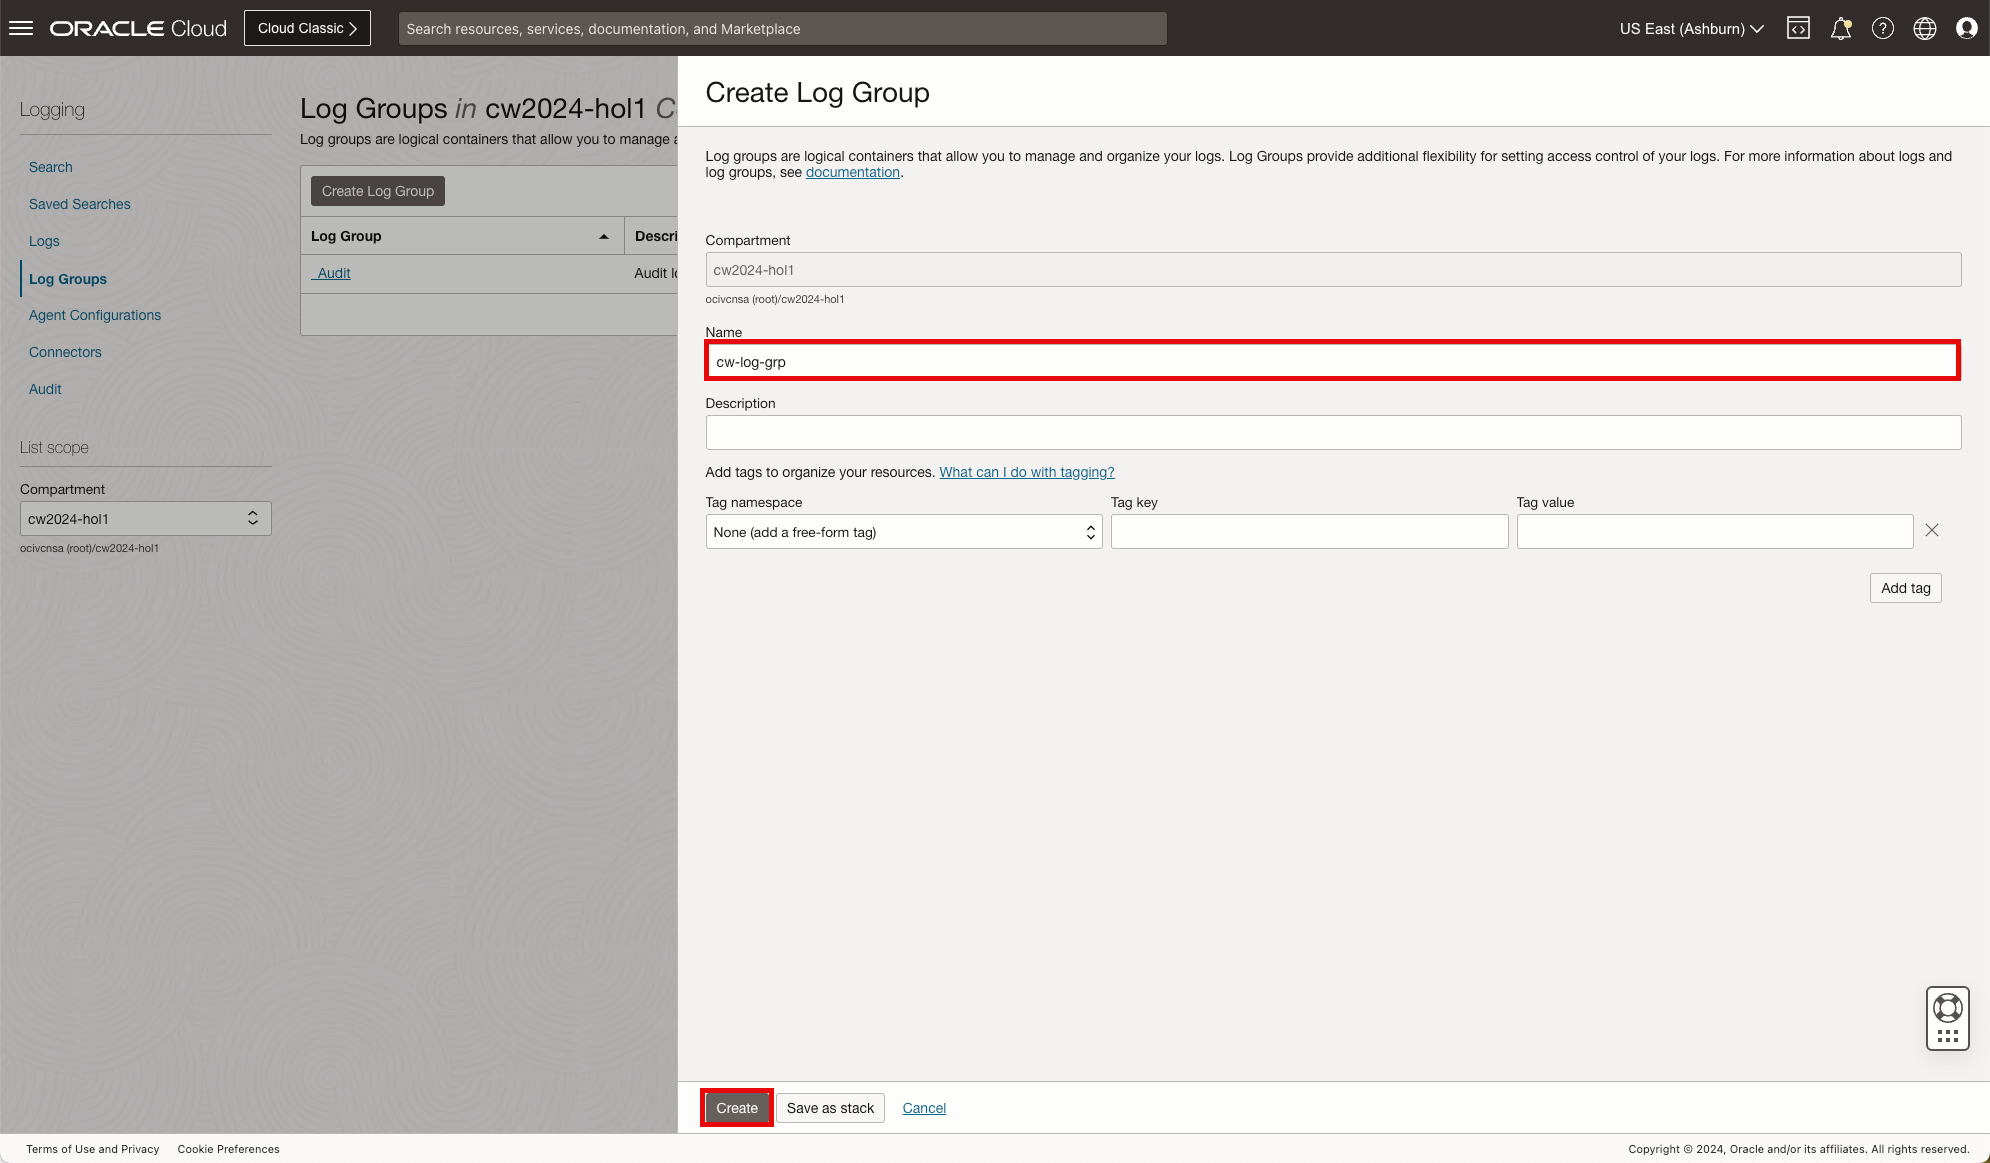
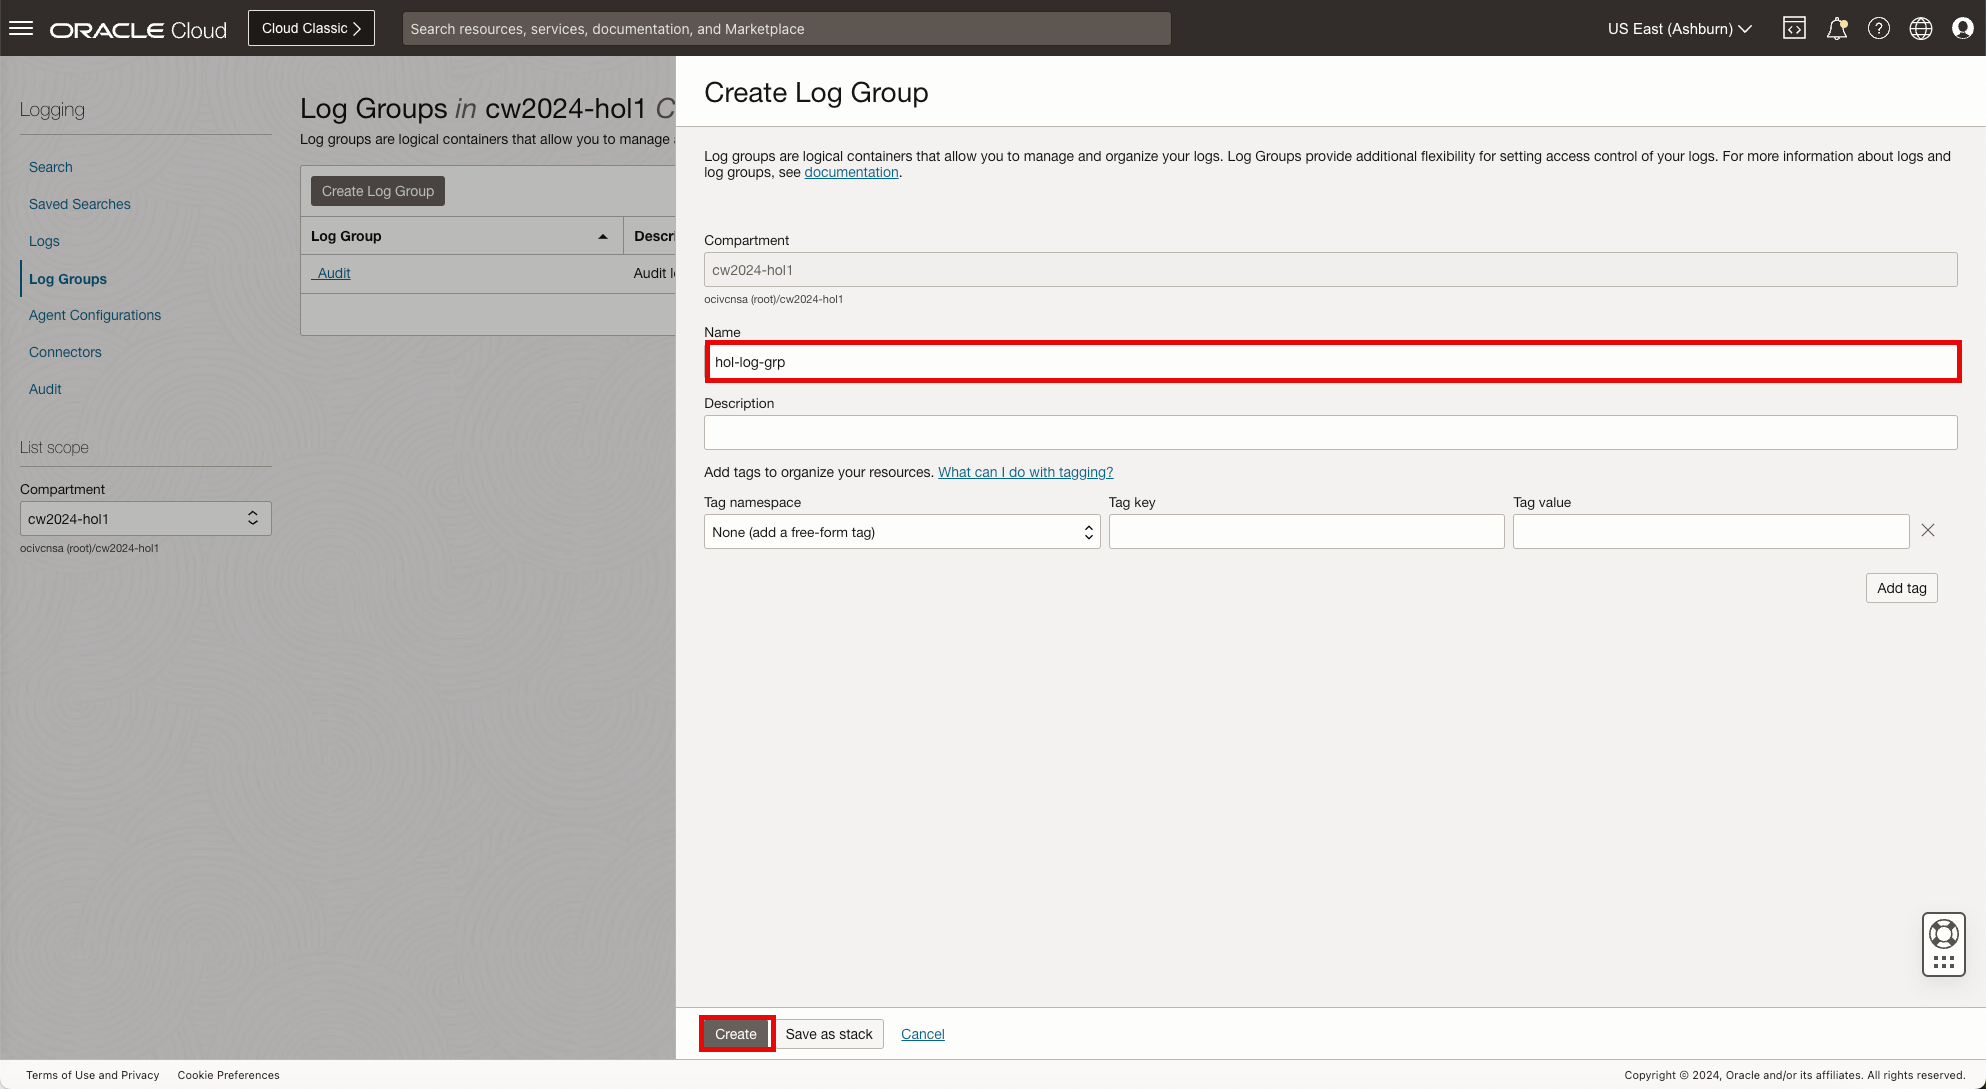
VTAP lab updates

diff --git a/oci-vtaps-flow-logs/lab1/lab1.md b/oci-vtaps-flow-logs/lab1/lab1.md
@@ -10,7 +10,7 @@ Virtual Cloud Networks (VCNs) provide customizable and private cloud networks in
 
 A Subnet is a subdivision of a VCN. Each subnet in a VCN consists of a contiguous range of IPv4 addresses and optionally IPv6 addresses that do not overlap with other subnets in the VCN.
 
-Logs contain critical diagnostic information that tells you how your resources are performing and being accessed. Log groups are logical containers for organizing logs. Logs must always be associated with log groups and you must create a log group to enable the desired log. [Visit our documentation](https://docs.oracle.com/en-us/iaas/Content/Logging/home.htm) for more information on Logging.
+Logs contain critical diagnostic information that tells you how your resources are performing and being accessed. Log groups are logical containers for organizing logs. Logs must always be associated with log groups and you must create a log group to enable the desired log. [Visit our documentation](https://docs.oracle.com/en-us/iaas/Content/Logging/home.htm) for more information on Logging or [Visit our documentation](https://docs.oracle.com/en-us/iaas/Content/Network/Concepts/vcn-flow-logs.htm#vcn_flow_logs) for more details on VCN Flow Logs.
 
 ### Objectives
 
@@ -40,37 +40,6 @@ Let's begin.
         ![region-home](images/region-home.png)
 
         **Note**: This lab can be completed in any OCI region you have access to with the required resources. Based on your account, select the desired region to complete the exercise. For the purpose of this lab we will use the **"US East (Ashburn)"** region.
-
-## Task 1: Create Log Group
-
-With log groups, you do not have to rely on complex compartment hierarchies to secure your logs. We will create a log group to facilitate the flow logs in the section to come.
-
-Let's begin.
-
-1. On the Oracle Cloud Infrastructure Console Home page, using the Navigation menu (on top left) click **Observability and Management** and click on **Log Groups**.
-
-    * Click the Navigation Menu (top left corner)
-    * Click **"Observability and Management"**
-    * Click **"Log Groups"**
-
-        ![loggroup-navigation](images/loggroup-navigation.png)
-
-2. In the Log Group tables, click **Create Log Group** to create the log group.
-
-    * Click **"Create Log Group"**
-
-        ![loggroup-createloggroups](images/loggroup-createloggroups.png)
-
-    In the log group configuration window, use the data below to create the log group:
-
-    * Name: **"cw-log-grp"**
-    * Click **"Create"**
-
-        ![loggroup-create](images/loggroup-create.png)
-
-3. The **Log Group** is created, you can now move forward to the **Next Task**.
-
-    ![loggroup-list](images/loggroup-list.png)
 
 ## Task 2: Create a VCN (Virtual Cloud Network)
 
@@ -145,53 +114,101 @@ Let's begin.
 
     ![subnet-list](images/subnet-list.png)
 
-## Task 4: Enable Flow Logging
+## Task 4: Create Log Group
 
-Now that we have created the three subnets for use within the lab, let's proceed with enabling Flow Logging for each subnet. There are many options for enabling Flow Logs, for the purpose of this exercise we will enable VCN Flow Logs for Subnets.
+With log groups, you do not have to rely on complex compartment hierarchies to secure your logs. We will create a log group to facilitate the flow logs in the section to come.
 
 Let's begin.
 
-1. In the **Subnets** table, click the first subnet.
+1. On the Oracle Cloud Infrastructure Console Home page, using the Navigation menu (on top left) click **Observability and Management** and click on **Log Groups**.
 
-    * Click **"lab-vcn-snet1"**
+    * Click the Navigation Menu (top left corner)
+    * Click **"Observability and Management"**
+    * Click **"Log Groups"**
 
-        ![subnet-snet1](images/subnet-snet1.png)
+        ![loggroup-navigation](images/loggroup-navigation.png)
 
-2. In the **Subnets** details view, select **Logs** under Resources and in the Enable Log Column for the **subnet** click on **Not enabled**. Once selected the status for the subnet will then transition to **Enabled**.
+2. In the Log Group tables, click **Create Log Group** to create the log group.
 
-    * Click **"Logs"**
-    * Click radio button next to **"Not Enabled"**
+    * Click **"Create Log Group"**
 
-        ![subnet-logs](images/subnet-logs.png)
+        ![loggroup-createloggroups](images/loggroup-createloggroups.png)
 
-3. In the Enable Log configuration leave all defaults and click **Enable Log**.
+    In the log group configuration window, use the data below to create the log group:
 
-    * Confirm the Log Group: **"cw-log-grp"**
-    * Click **"Enable Log**
+    * Name: **"hol-log-grp"**
+    * Click **"Create"**
 
-        ![subnet-enablelog](images/subnet-enablelog.png)
+        ![loggroup-create](images/loggroup-create.png)
 
-4. In the navigation path below the top menu bar, click **hol-vcn** and repeat the steps 1, 2 and 3 for the second subnet.
+3. The **Log Group** is created, you can now move forward to the **Next Task**.
 
-    ![subnet-navigationholvcn](images/subnet-navigationholvcn.png)
+    ![loggroup-list](images/loggroup-list.png)
 
-    * Click **"hol-vcn-sbnet2"**
-    * Click **"Logs"**
-    * Click radio button next to **"Not Enabled"**
-    * Confirm the Log Group: **"cw-log-grp"**
-    * Click **"Enable Log**
+## Task 4: Create VCN Flow Log
 
-5. In the navigation path below the top menu bar, click **hol-vcn** and repeat the steps 1, 2 and 3 for the third subnet.
+With VCN Flow Logs, you can capture network traffic information to support monitoring and security needs. We will enable the flow logs in the section below.
 
-    ![subnet-navigationholvcn](images/subnet-navigationholvcn.png)
+Let's begin.
 
-    * Click **"hole-vcn-sbnet3"**
-    * Click **"Logs"**
-    * Click radio button next to **"Not Enabled"**
-    * Confirm the Log Group: **"cw-log-grp"**
-    * Click **"Enable Log"**
+1. On the Oracle Cloud Infrastructure Console Home page, using the Navigation menu (on top left) click **Networking** and click on **Flow logs**.
 
-6. Click **Oracle Cloud** in the top left of the menu bar to return to the home page.
+    * Click the Navigation Menu (top left corner)
+    * Click **"Networking"**
+    * Click **"Flow logs"**
+
+        ![loggroup-navigation](images/flowlogs-navigation.png)
+
+2. In the Flow log configurations tables, click **Enable flow logs** to create the log group.
+
+    * Click **"Enable flow logs"**
+
+        ![loggroup-createloggroups](images/flowlogs-enableflowlogs.png)
+
+3. In the Enable flow logs **"Basic information"** window, use the data below:
+
+    Name and Flow log destination
+
+    * File name prefix: **"hol-flow-log"**
+    * Select **"hol-log-grp"**
+
+        ![loggroup-create](images/flowlogs-loggroup.png)
+
+    Capture filter
+
+    * Select **"Select a capture filter"**
+    * Select **"Create new capture filter"**
+    * Select Sampling rate: **"100%"**
+
+        ![loggroup-create](images/flowlogs-capturefilter.png)
+
+4. In the Enable flow logs **"Enablement points"** window, use the data below:
+
+    * Click **"Add enablement points"**
+    * Select **"Virtual cloud network"**
+    * Click **"Continue"**
+
+        ![loggroup-create](images/flowlogs-vcn.png
+
+    * Virtual cloud network: **"hol-vcn"**
+    * Click **"Add enablement points"**
+    * Click **"Next"**
+
+        ![loggroup-create](images/flowlogs-enablementpoints.png
+
+5. In the Enable flow logs **"Review and create"** window, use the data below:
+
+    * Click **"Enable flow logs"**
+
+        ![loggroup-create](images/flowlogs-enable.png
+
+6. **Flow Logs** are now enabled, you can now move forward to the **Next Task**.
+
+    ![loggroup-list](images/flowlogs-active.png)
+
+    **Note**: It may take a minutes to transition to active.
+
+7. Click **Oracle Cloud** in the top left of the menu bar to return to the home page.
 
     * Click **"Oracle CLoud"**
 

diff --git a/oci-vtaps-flow-logs/lab3/lab3.md b/oci-vtaps-flow-logs/lab3/lab3.md
@@ -49,6 +49,7 @@ Let's begin.
 2. In the Network load balancer **Add details** screen, update the **Load balancer name** and scroll down to **Choose networking** section to update the subnet then click **Next**.
 
     * Load balancer name: **"nlb"**
+    * Virtual cloud network: **"hol-vcn"**
     * Subnet: **"hol-vcn-snet3"**
     * Click **"Next"**
 
@@ -118,7 +119,7 @@ Let's begin.
     Name and VCN
 
     * Name: **"vtap"**
-    * VCN: **"vcn-lab"**
+    * VCN: **"hol-vcn"**
 
       ![vtap-nameandvcn](images/vtap-nameandvcn.png)
 
